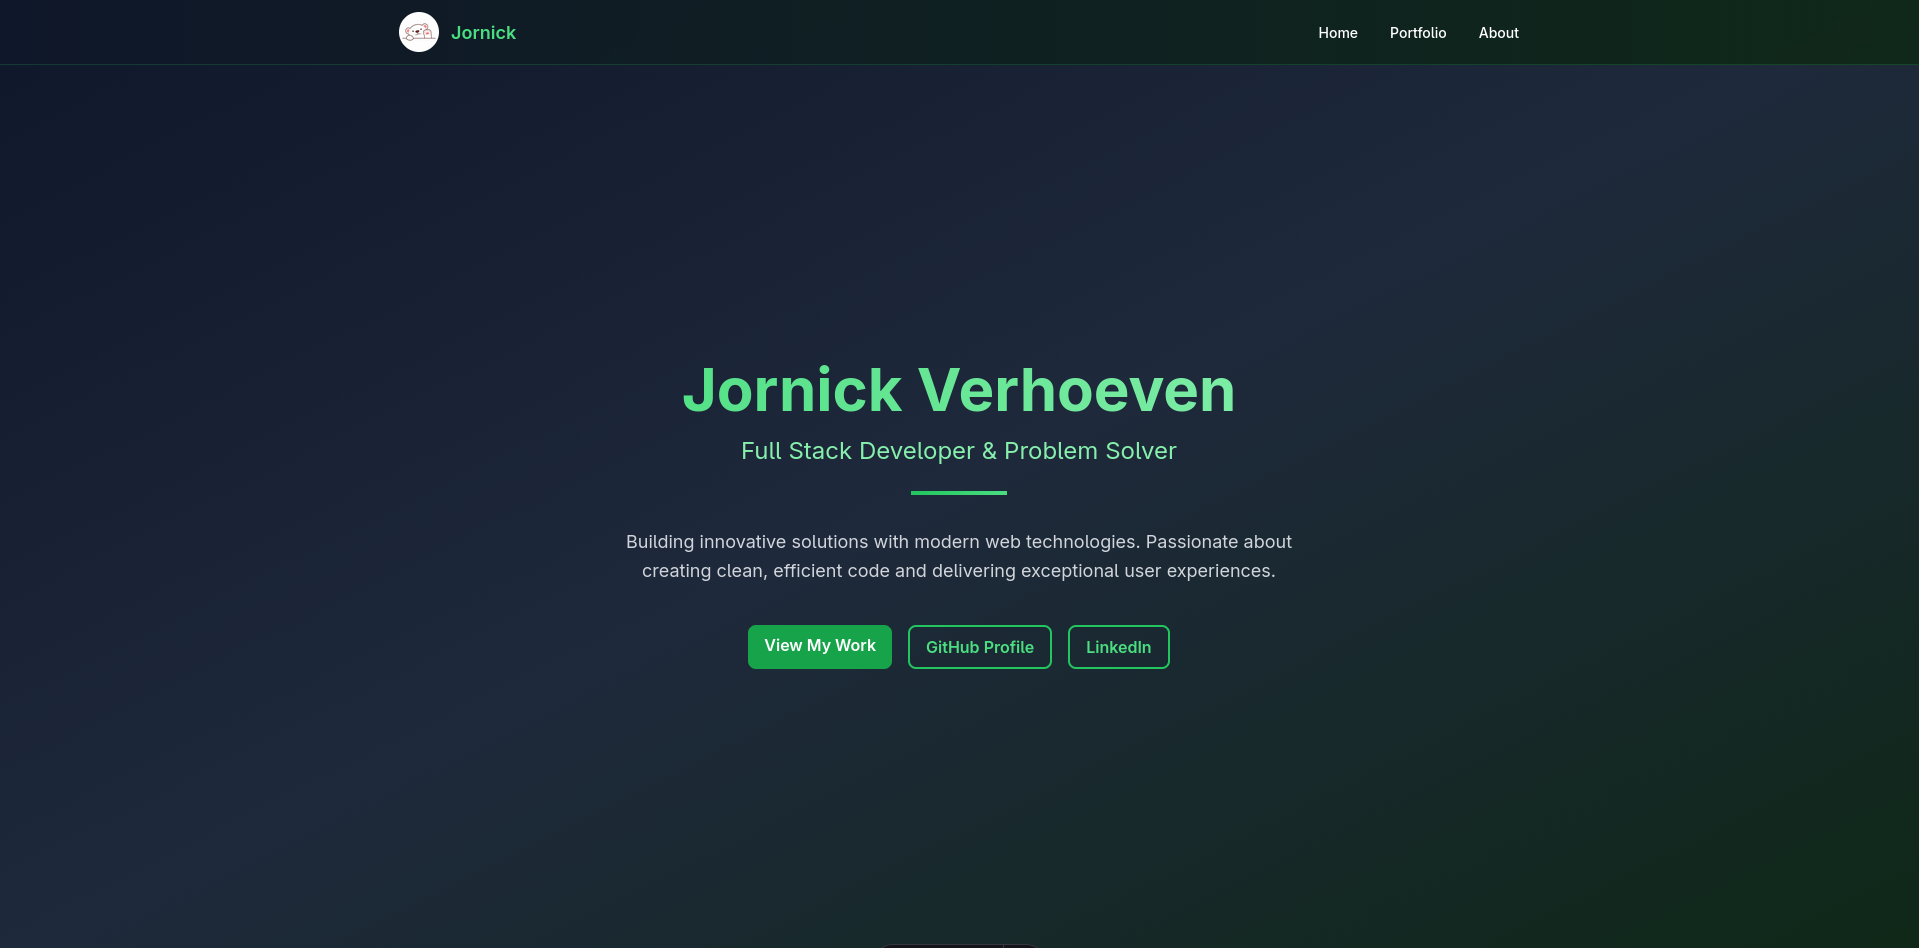
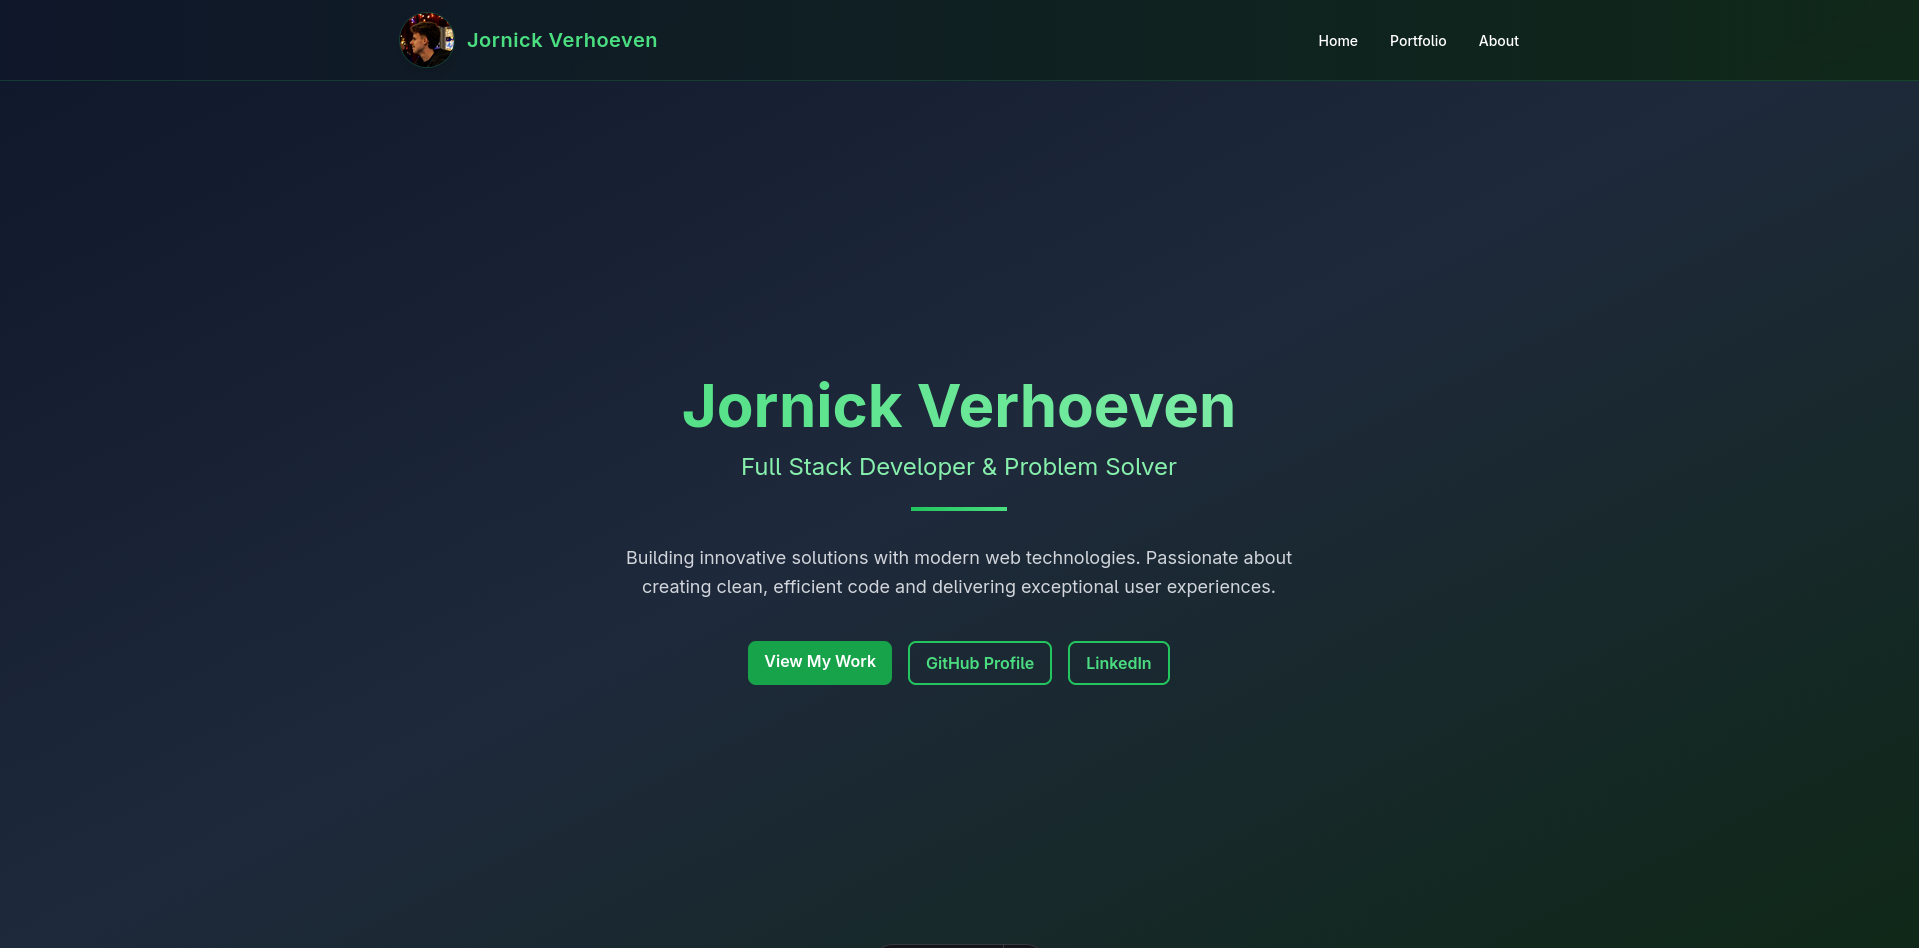
finished for now wrapped up about and the projects also made better styling

Changed region(s): [[0.3075, 0.3977, 0.6764, 0.7342], [0.6764, 0.0306, 1.0, 0.0918], [0.1845, 0.0, 0.3382, 0.0918]]

diff --git a/src/content/projects/comfyui-research.md b/src/content/projects/comfyui-research.md
@@ -1,0 +1,21 @@
+---
+title: "ComfyUI Research (Internship)"
+description: "Automating 3D model repair and generation pipelines using ComfyUI and custom Python nodes."
+tech: ["ComfyUI", "Python", "Blender API", "FastAPI", "Web Components"]
+date: 2025-05-01
+slug: comfyui-research
+image: "/comfyui-stock.png" 
+---
+**The Project**
+
+This project was a deep dive into AI-driven 3D workflows during my internship. The goal was to build a full pipeline where a user could upload an image or a raw GLB file to a frontend built with Web Components and receive a fully usable, game-ready 3D model in return.
+
+(Disclaimer: The image shown is a stock photo as I cannot disclose the actual project materials due to internship restrictions.)
+
+<br>
+
+**Technical Approach**
+
+I used ComfyUI to orchestrate the workflow. While generating models with Trellis worked well, the raw GLB files often had meshing or structural issues that made them incompatible with the strict import requirements of Unity.
+
+To solve this, I developed a repair pipeline that could ingest and fix these files. I created custom ComfyUI nodes to handle the transmission of GLB files over HTTP. Inside the pipeline, I used the Blender API within Python to script a tool that imports the model, extracts all individual layers, and re-merges them correctly. This automated process ensured every model came out with clean meshing, ready for immediate use in the game.

diff --git a/src/content/projects/portfolio-site.md b/src/content/projects/portfolio-site.md
@@ -3,7 +3,7 @@ title: "Portfolio Website"
 description: "A high-performance portfolio built with Astro and Tailwind CSS."
 repo: "https://github.com/JornickVn/Jornick-verhoeven.com"
 tech: ["Astro", "Tailwind CSS"]
-date: 2025-03-17
+date: 2026-02-16
 slug: portfolio-website
 image: "/portfolio.png" 
 ---
